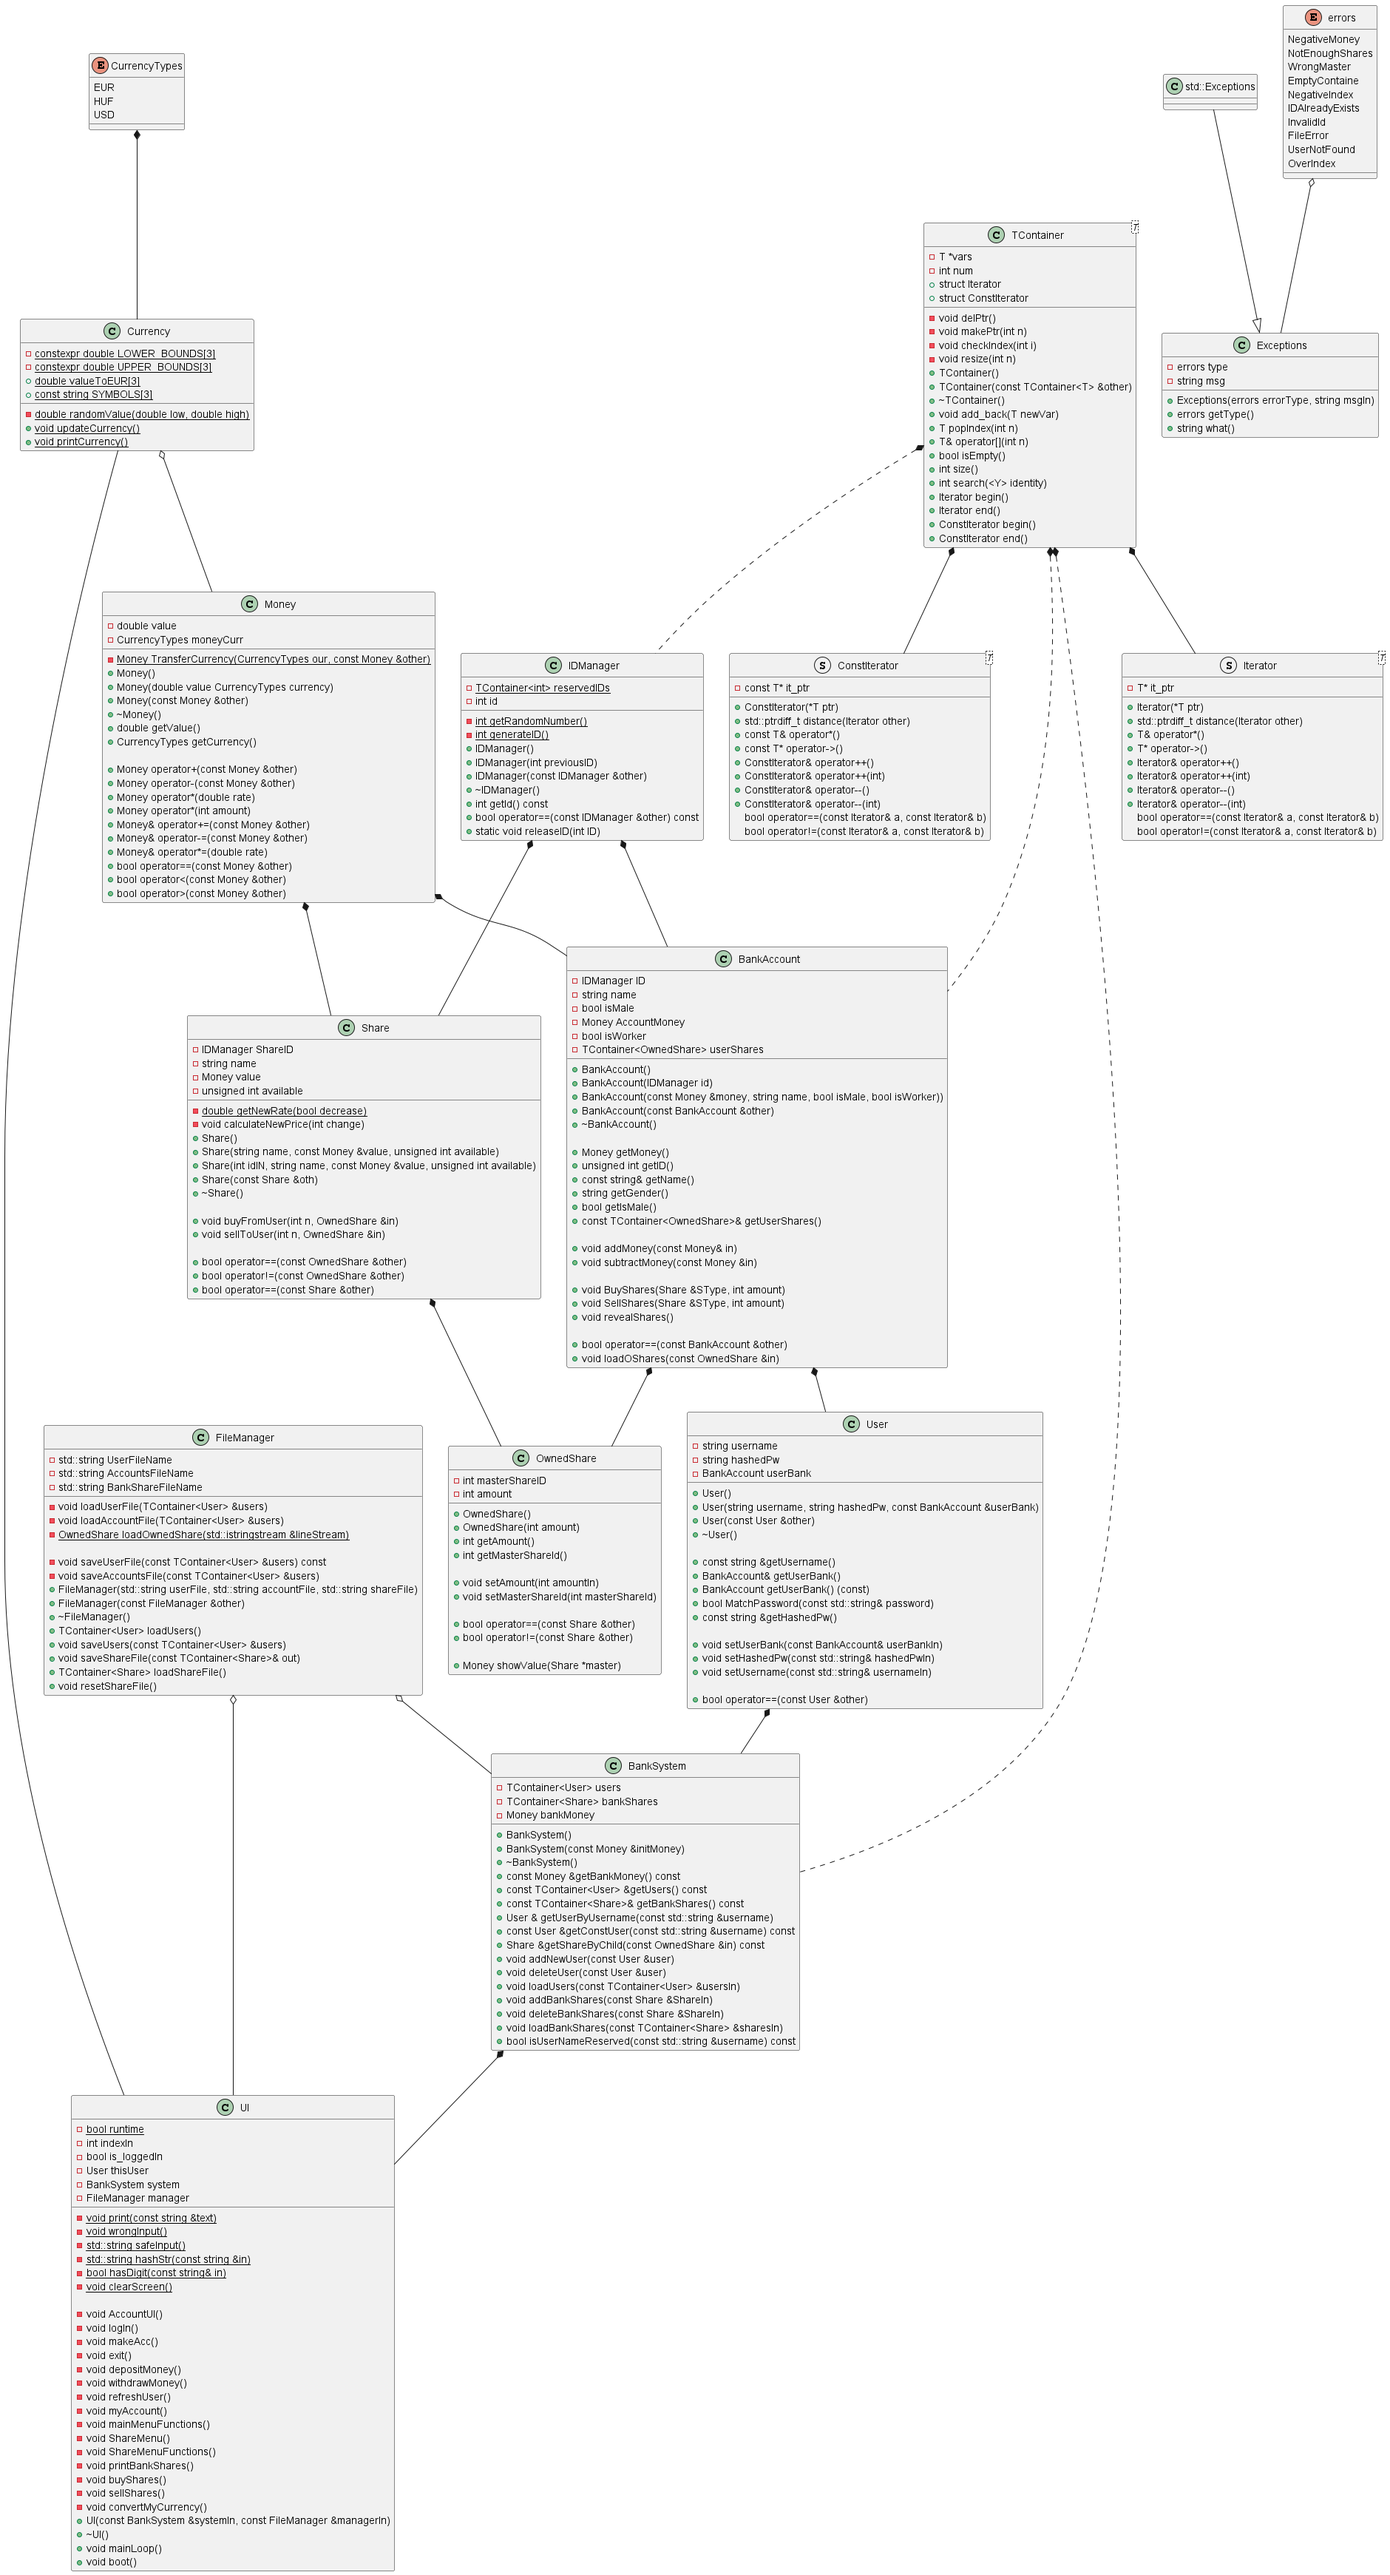
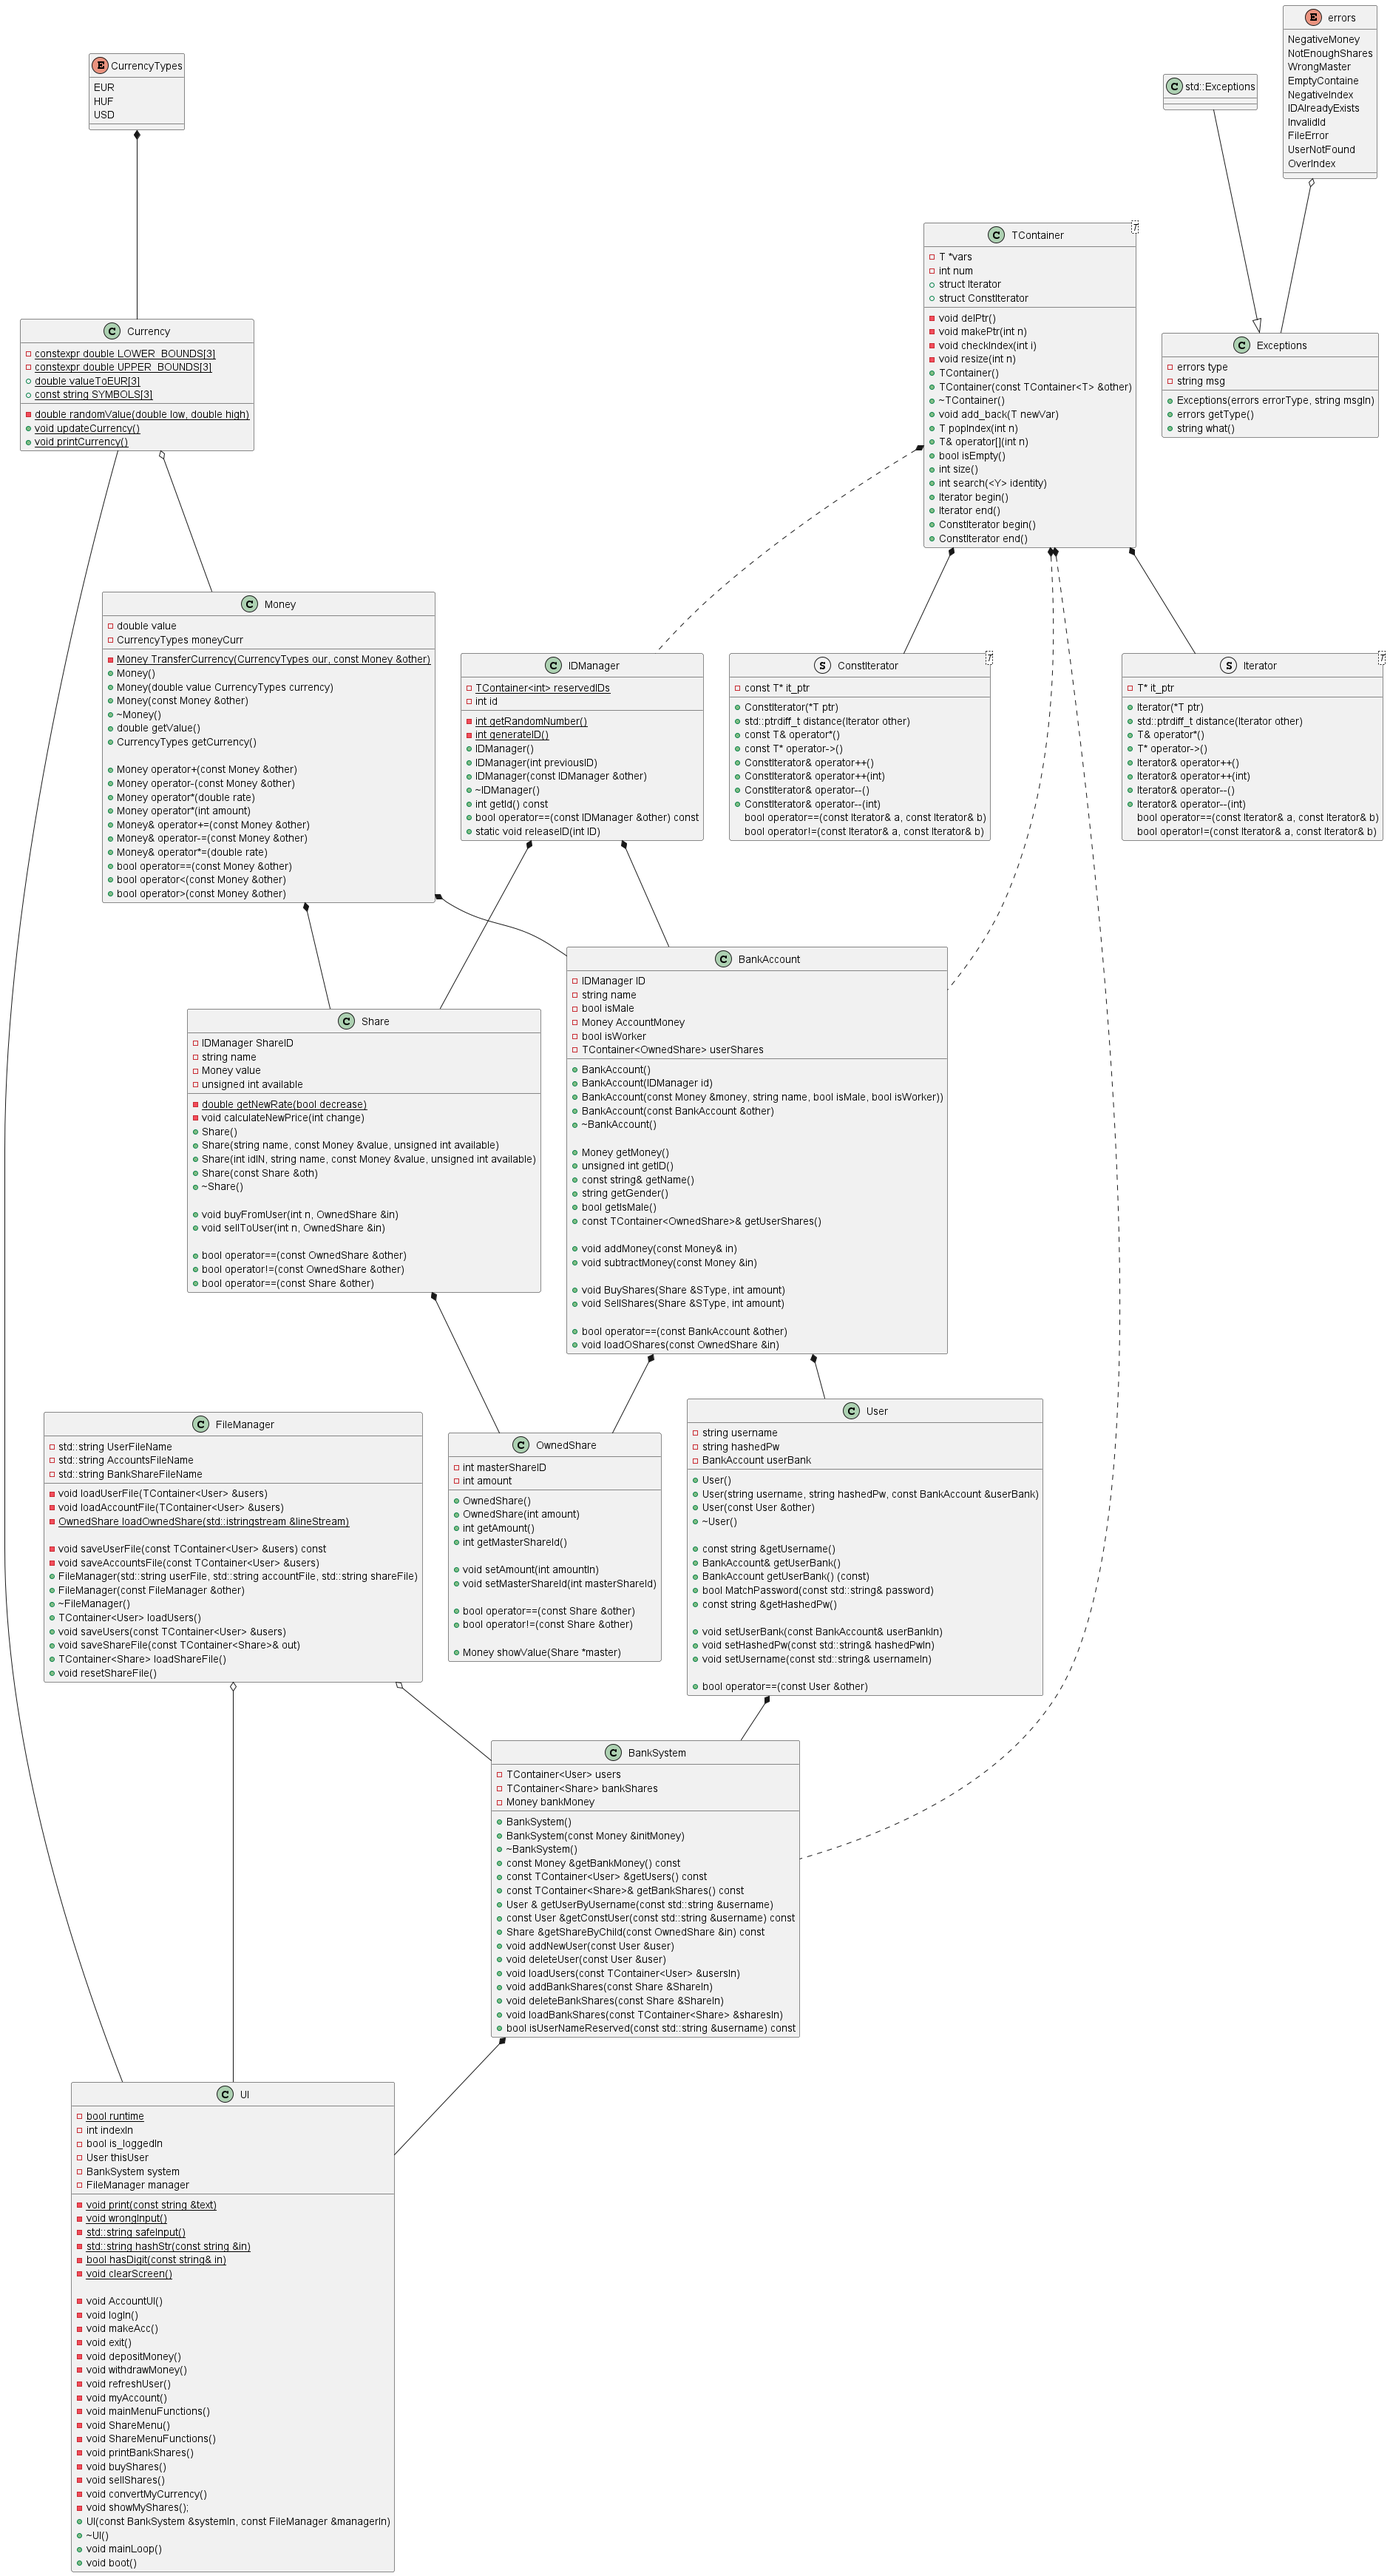
UI safety catching exceptions, new diagrams

diff --git a/code/UI.cpp b/code/UI.cpp
@@ -22,13 +22,6 @@ const std::string UI::shareMenuText = "\nPlease type in your selected menu point
                                       "4. Show my shares\n"
                                       "5. Return\n";
 
-const std::string UI::workerMenuText = "\nPlease type in your selected menu point. Options:\n\n"
-                                       "1. Banks Finances\n"
-                                       "2. Manage Shares.\n"
-                                       "3. Manage Users\n"
-                                       "4. Manage Currency\n"
-                                       "5. Log out\n";
-
 const std::string UI::accountTextMenu = "Please type in your selected menu point. Options:\n\n"
                                         "1. Login\n"
                                         "2. Register\n"
@@ -413,8 +406,9 @@ void UI::ShareMenuFunctions() {
         case 3:
             sellShares(); // Checked
             break;
-        case 4: // TODO needs to be more detailed..
-            this->thisUser.getUserBank().revealShares();
+        case 4:
+            showMyShares();
+            break;
         case 5:
             return;
         default:
@@ -434,7 +428,7 @@ void UI::printBankShares() {
     }
 }
 
-void UI::buyShares() { // TODO check if shares are available
+void UI::buyShares() {
     printBankShares();
 
     int index;
@@ -593,6 +587,20 @@ bool UI::hasDigit(const std::string &in) {
 
 void UI::clearScreen() {
     print("\033[2J\033[1;1H");
+}
+
+void UI::showMyShares() {
+    auto userShares = this->thisUser.getUserBank().getUserShares();
+    print("\n");
+
+    if (userShares.isEmpty()) {
+        print("\nYou don't have any shares bought.\n");
+        return;
+    }
+    for (const auto &OS: userShares) {
+        auto Master = this->system.getShareByChild(OS);
+        std::cout << Master.getName() << ": " << OS << " value: " << OS.showValue(&Master) << std::endl;
+    }
 }
 
 

diff --git a/headers/UI.hpp b/headers/UI.hpp
@@ -19,7 +19,6 @@ private: // Private Static variables, functions
     static const std::string menuText;
 
     static const std::string shareMenuText;
-    static const std::string workerMenuText;
 
     static const std::string accountTextMenu;
     static const std::string usernameTXT;
@@ -67,6 +66,7 @@ private: // Object related private methods
     void buyShares(); // Interface for buying shares
     void sellShares(); // Interface for selling shares
     void convertMyCurrency(); // Converts the users currency
+    void showMyShares();
 public:
     UI(const BankSystem &systemIn, const FileManager &managerIn); // Only constructor needed
     ~UI(); // We need the destructor, because with every quit we save the data.

diff --git a/code/Share.cpp b/code/Share.cpp
@@ -127,5 +127,5 @@ std::ostream &operator<<(std::ostream &stream, const Share &in) {
 }
 
 std::ostream &operator<<(std::ostream &stream, const OwnedShare &in) {
-    return stream << "id of share: " << in.getMasterShareId() << " owned: " << in.getAmount();
+    return stream << "(id of share: " << in.getMasterShareId() << ") owned: " << in.getAmount();
 }

diff --git a/code/BankAccount.cpp b/code/BankAccount.cpp
@@ -106,12 +106,6 @@ void BankAccount::SellShares(Share &SType, int amount) {
     }
 }
 
-void BankAccount::revealShares() {
-    for (auto &userShare: userShares) {
-        std::cout << userShare << std::endl;
-    }
-}
-
 bool BankAccount::operator==(const BankAccount &other) {
     return this->ID == other.ID;
 }

diff --git a/headers/BankAccount.hpp b/headers/BankAccount.hpp
@@ -52,8 +52,6 @@ public:
 
     // Share printer
 
-    void revealShares();
-
     // Operators
 
     bool operator==(const BankAccount &other);
